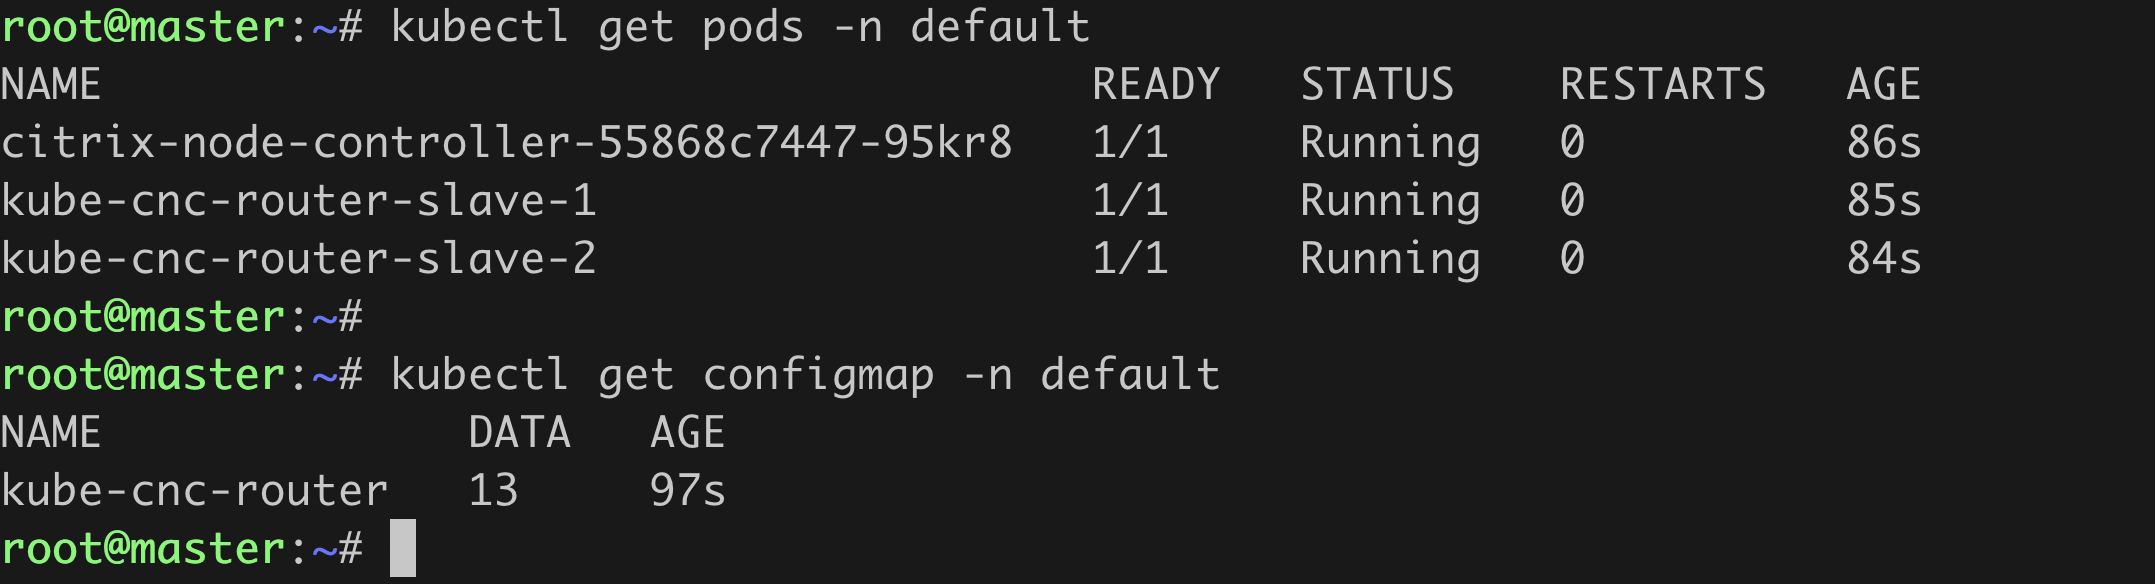
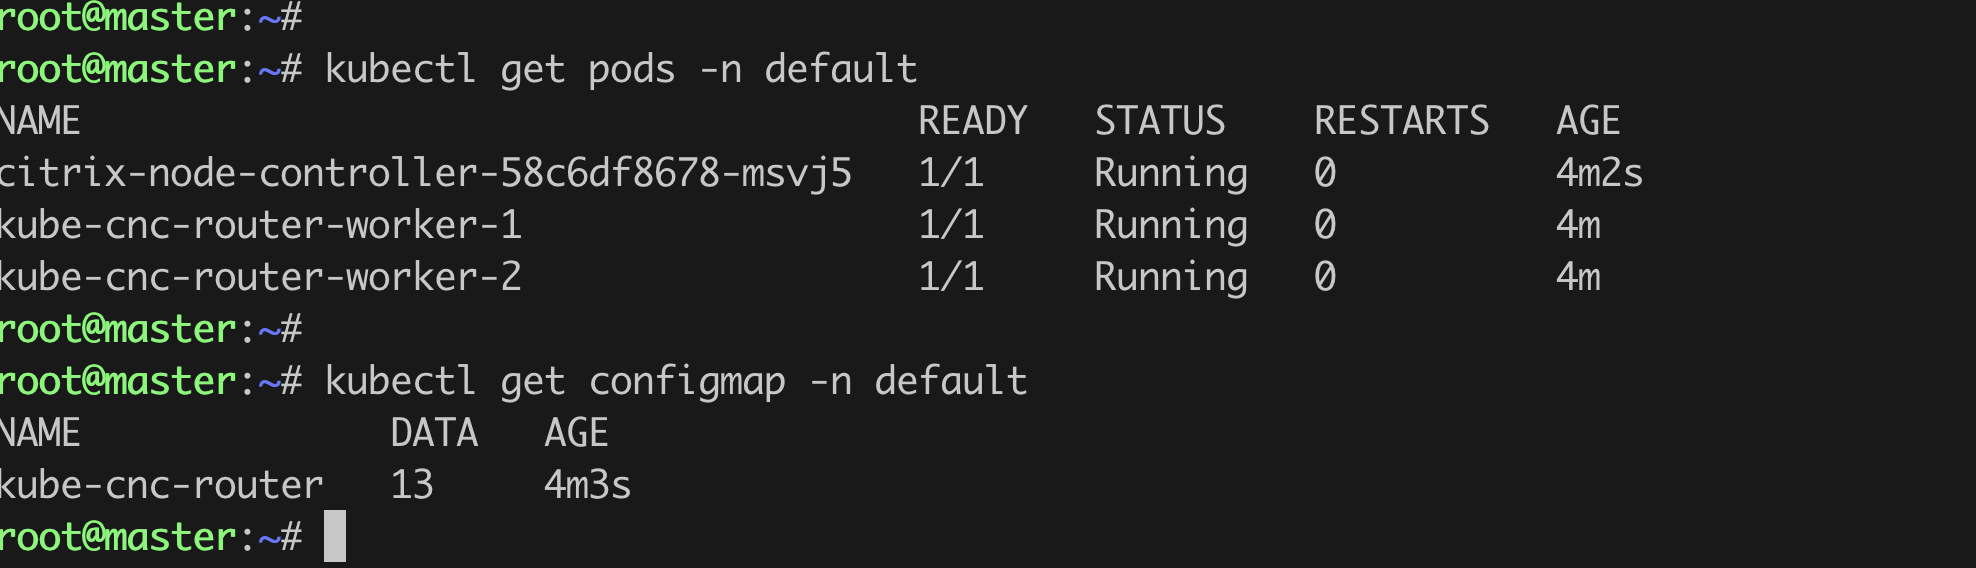
updated worker

diff --git a/deploy/README.md b/deploy/README.md
@@ -71,8 +71,8 @@ Apart from "citrix-node-controller" deployment, some other resources are also cr
 
 On each of the worker nodes, a interface "cncvxlan<hash-of-namespace>" and iptables rule will get created.
 
-<img src="../images/slave-1.png" width="600" height="300">
-<img src="../images/slave-2.png" width="600" height="300">
+<img src="../images/worker-1.png" width="600" height="300">
+<img src="../images/worker-2.png" width="600" height="300">
 
 
 # Delete the Citrix K8s node controller 

diff --git a/deploy/troubleshoot.md b/deploy/troubleshoot.md
@@ -44,7 +44,7 @@ We can verify few things to debug the issue of services being in DOWN state.
        - port should be same as that of vxlan created on ADC
        
 
-   <img src="../images/slave-1.png" width="600" height="300">
+   <img src="../images/worker-1.png" width="600" height="300">
 
 
 ### Service status UP but ping from ADC not working
